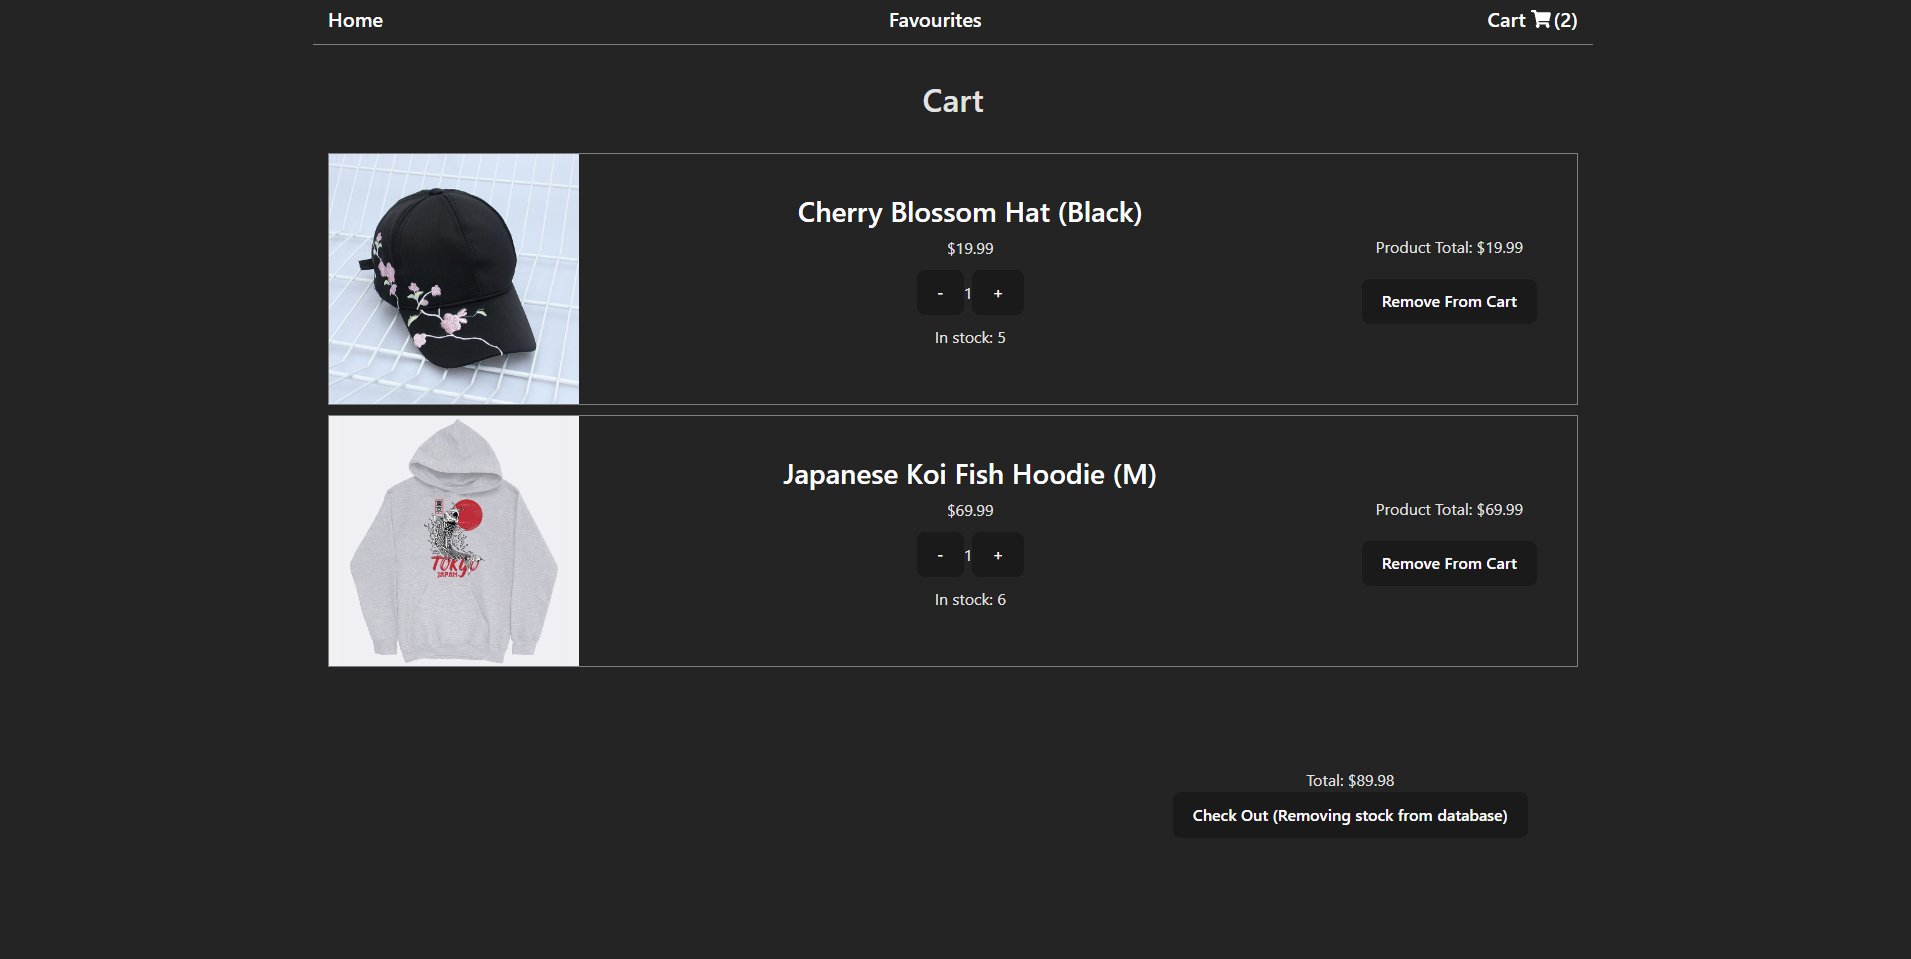
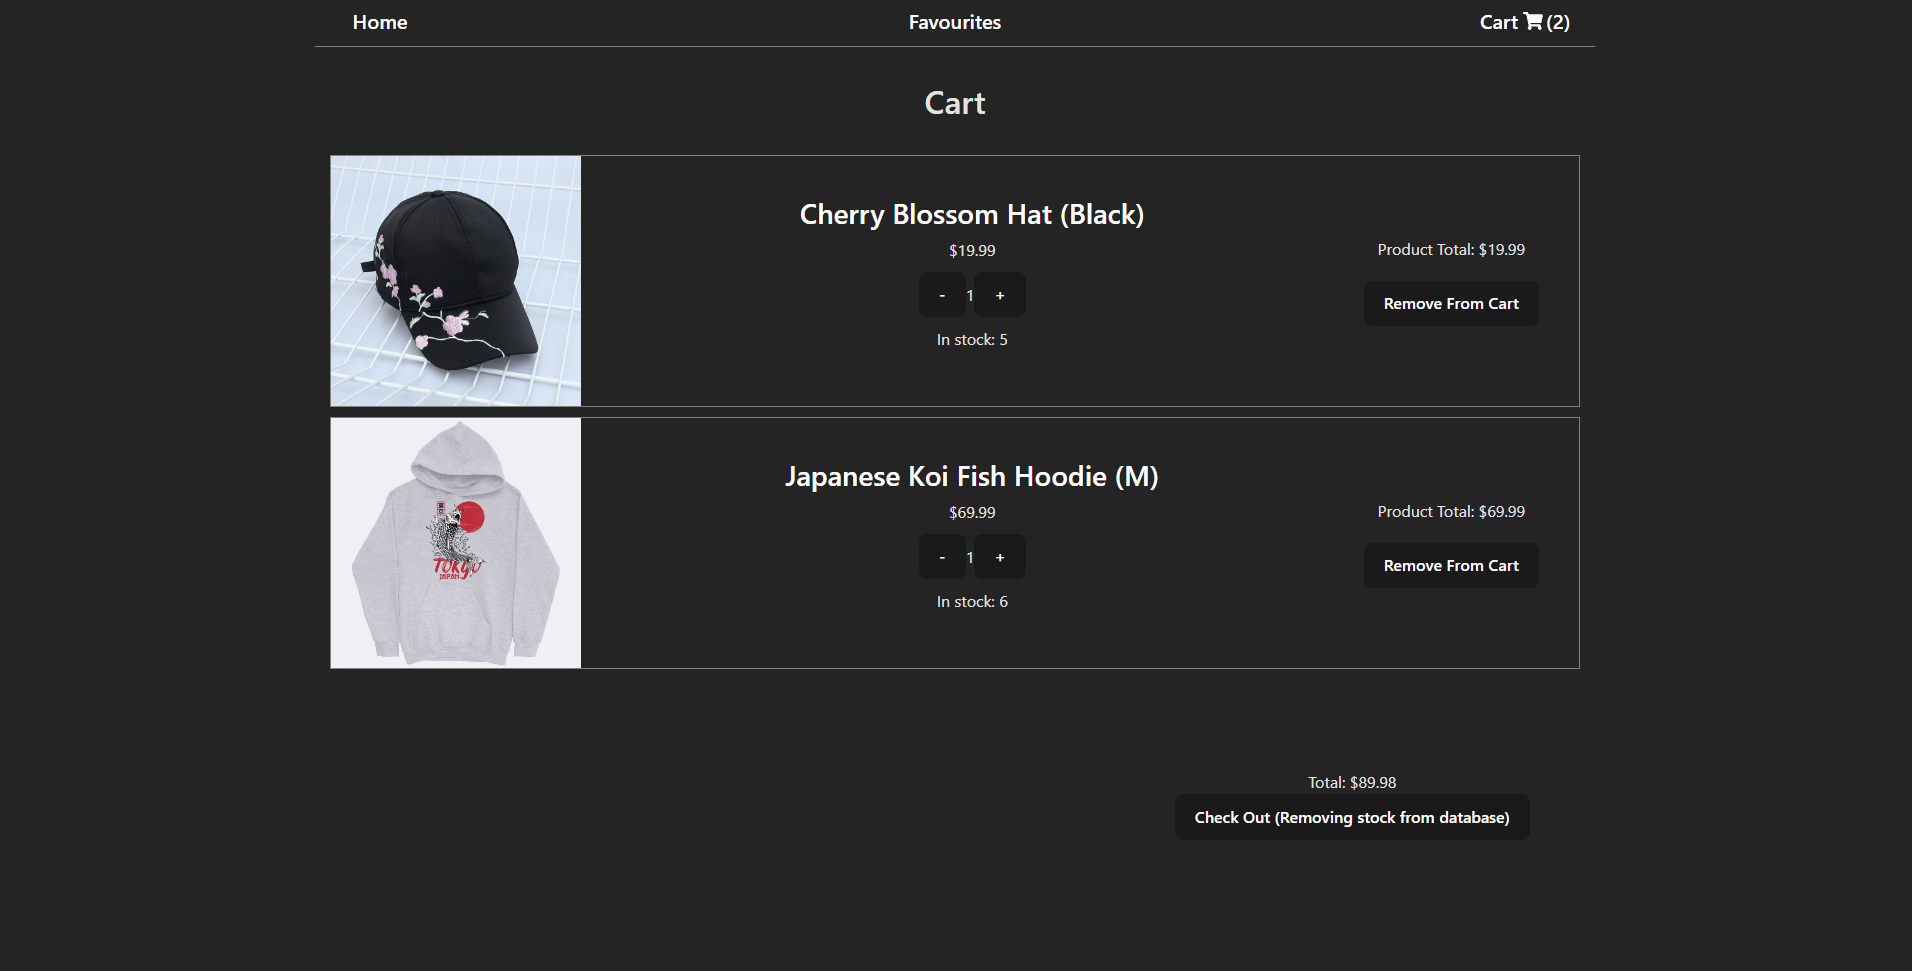
Fixed favourites header to be center

diff --git a/src/App.jsx b/src/App.jsx
@@ -67,7 +67,10 @@ function App() {
   return (
     <BrowserRouter>
       <div className="App">
-        <Nav cartNum={cartNum} />
+        <header>
+          <Nav cartNum={cartNum} />
+        </header>
+
         <Routes>
           <Route
             path="/"

diff --git a/src/components/Nav/Nav.module.scss b/src/components/Nav/Nav.module.scss
@@ -5,6 +5,10 @@
   padding: 10px 15px;
   border-bottom: 1px solid grey;
   font-size: 20px;
+
+  & > * {
+    width: 100px;
+  }
 }
 
 .cart {
